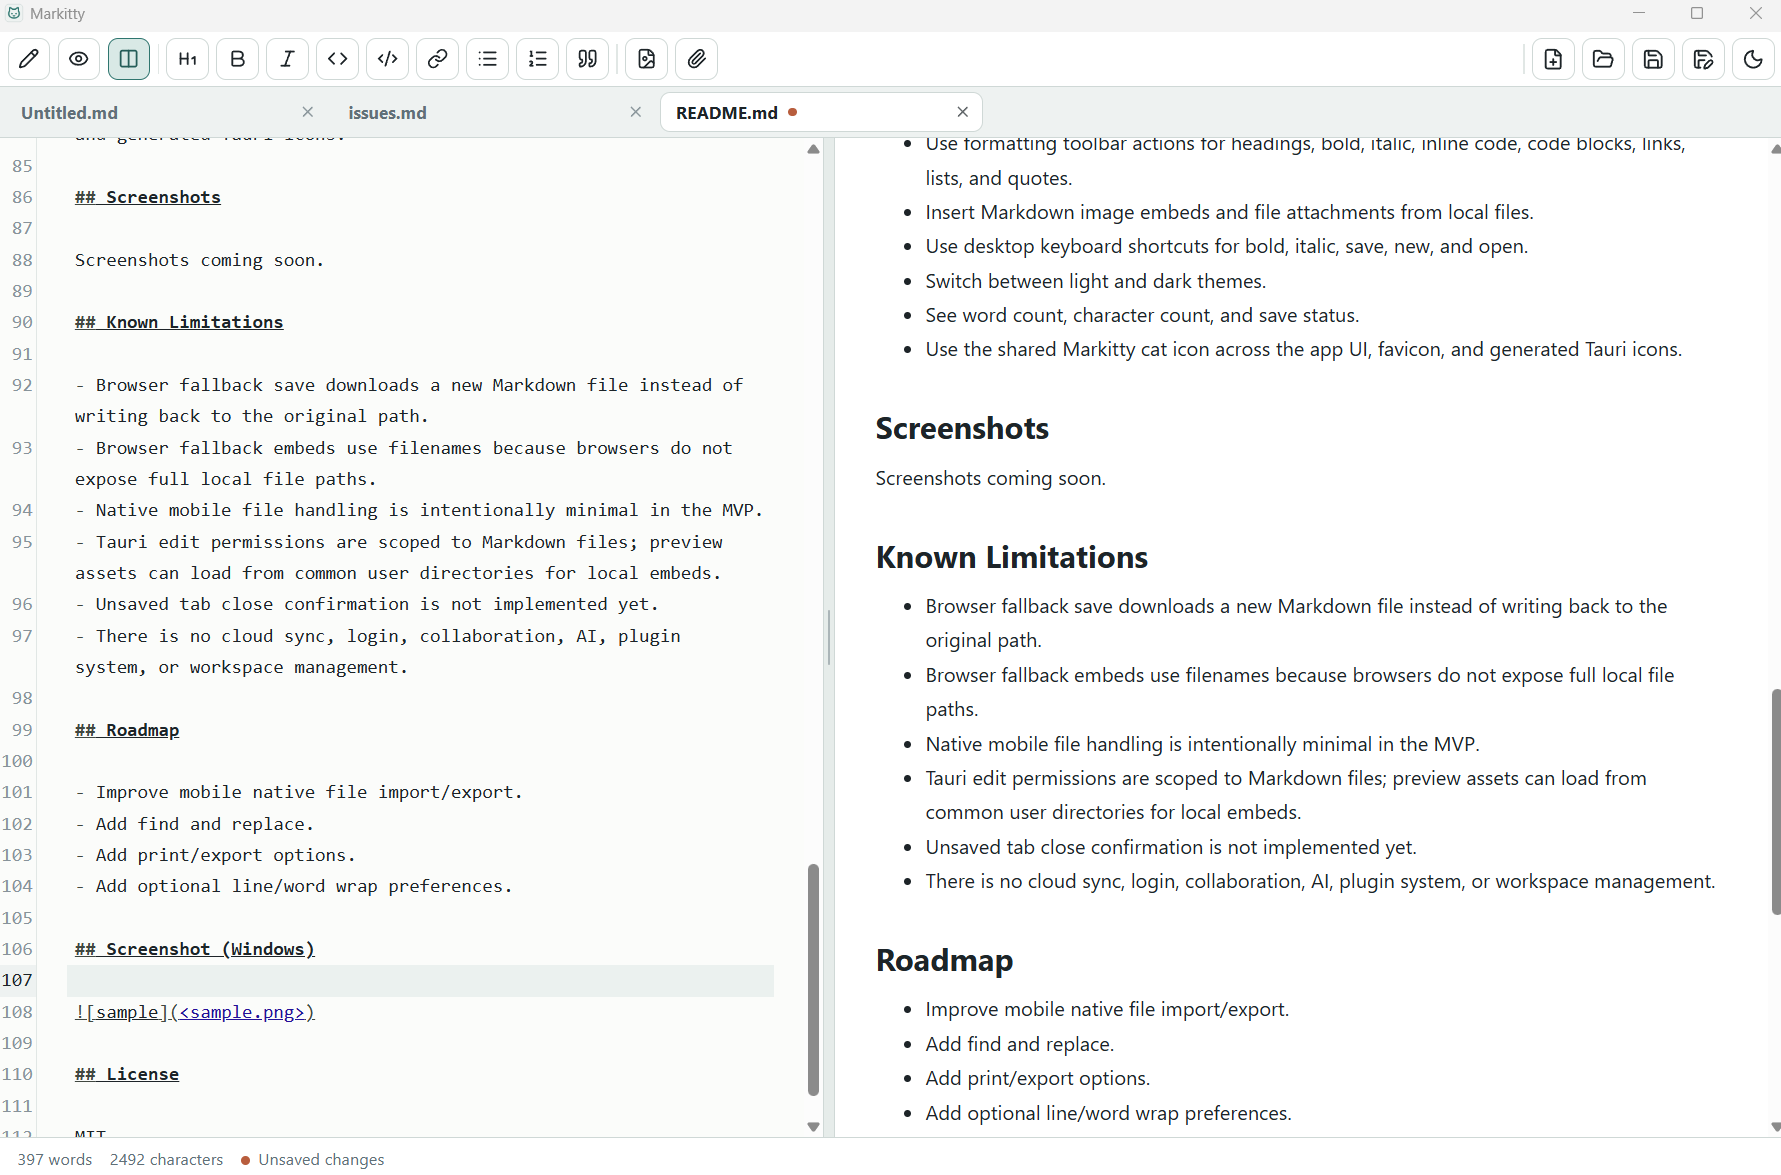
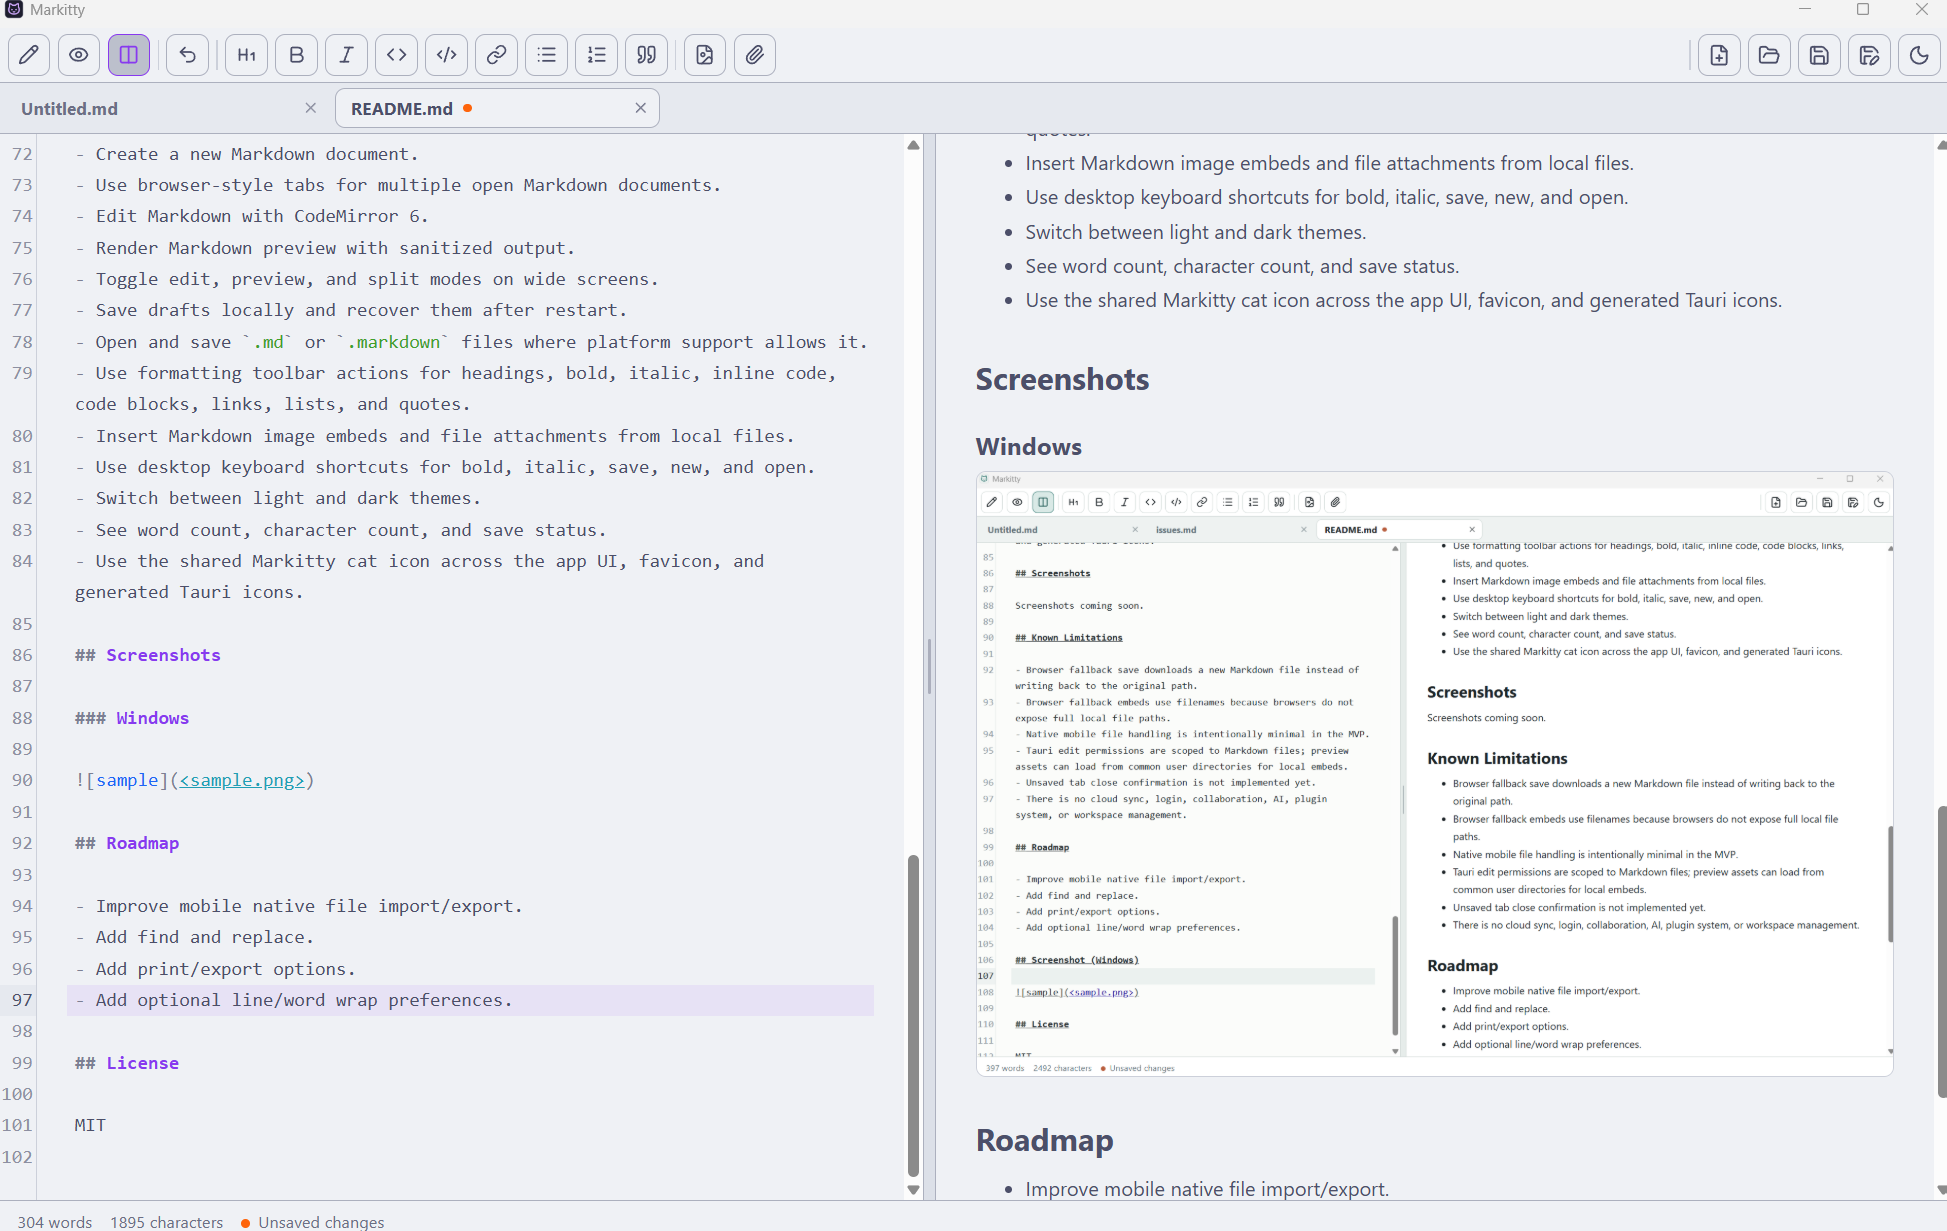
update readme

diff --git a/README.md b/README.md
@@ -89,15 +89,6 @@ npm test
 
 ![sample](<sample.png>)
 
-## Known Limitations
-
-- Browser fallback save downloads a new Markdown file instead of writing back to the original path.
-- Browser fallback embeds use filenames because browsers do not expose full local file paths.
-- Native mobile file handling is intentionally minimal in the MVP.
-- Tauri edit permissions are scoped to Markdown files; preview assets can load from common user directories for local embeds.
-- Unsaved tab close confirmation is not implemented yet.
-- There is no cloud sync, login, collaboration, AI, plugin system, or workspace management.
-
 ## Roadmap
 
 - Improve mobile native file import/export.
